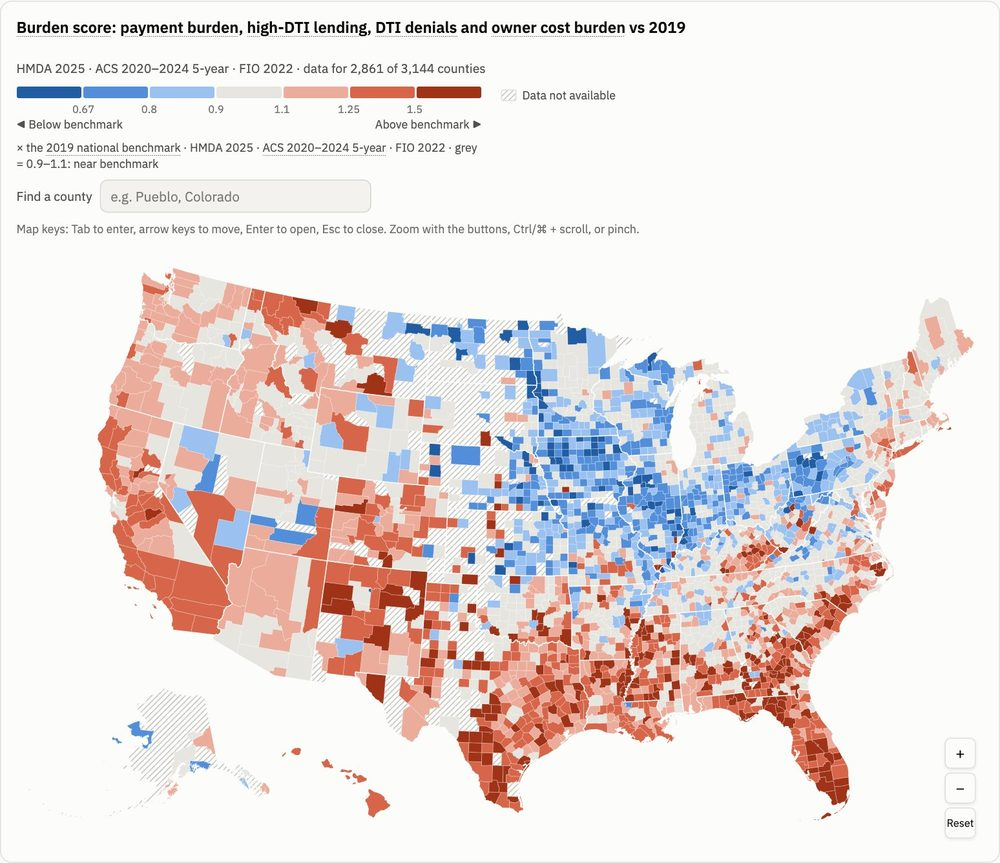
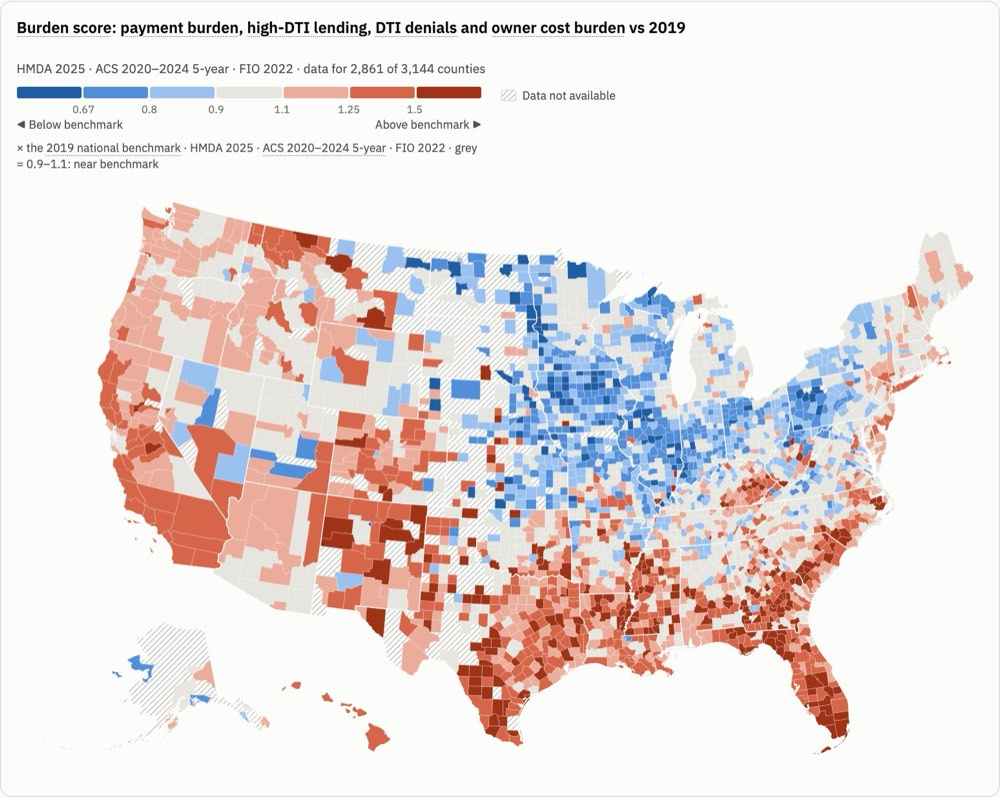
Adjusted the hero image contained in the maps report page.

diff --git a/pipeline/figures/hero.py b/pipeline/figures/hero.py
@@ -39,6 +39,9 @@ def main():
         page.wait_for_function("document.querySelectorAll('.counties path').length > 3000")
         page.wait_for_function("document.getElementById('layer-title').textContent.includes('Burden')")
         page.evaluate("document.fonts.ready")
+        # Hide the interactive controls (county search, keyboard hints, zoom buttons): in a still
+        # image they look clickable but aren't. Only this screenshot changes, not the live map.
+        page.add_style_tag(content="#map-card .search, #map-card .zoom-controls { display: none !important; }")
         card = page.locator("#map-card")
         for out in outs:
             out.mkdir(parents=True, exist_ok=True)
